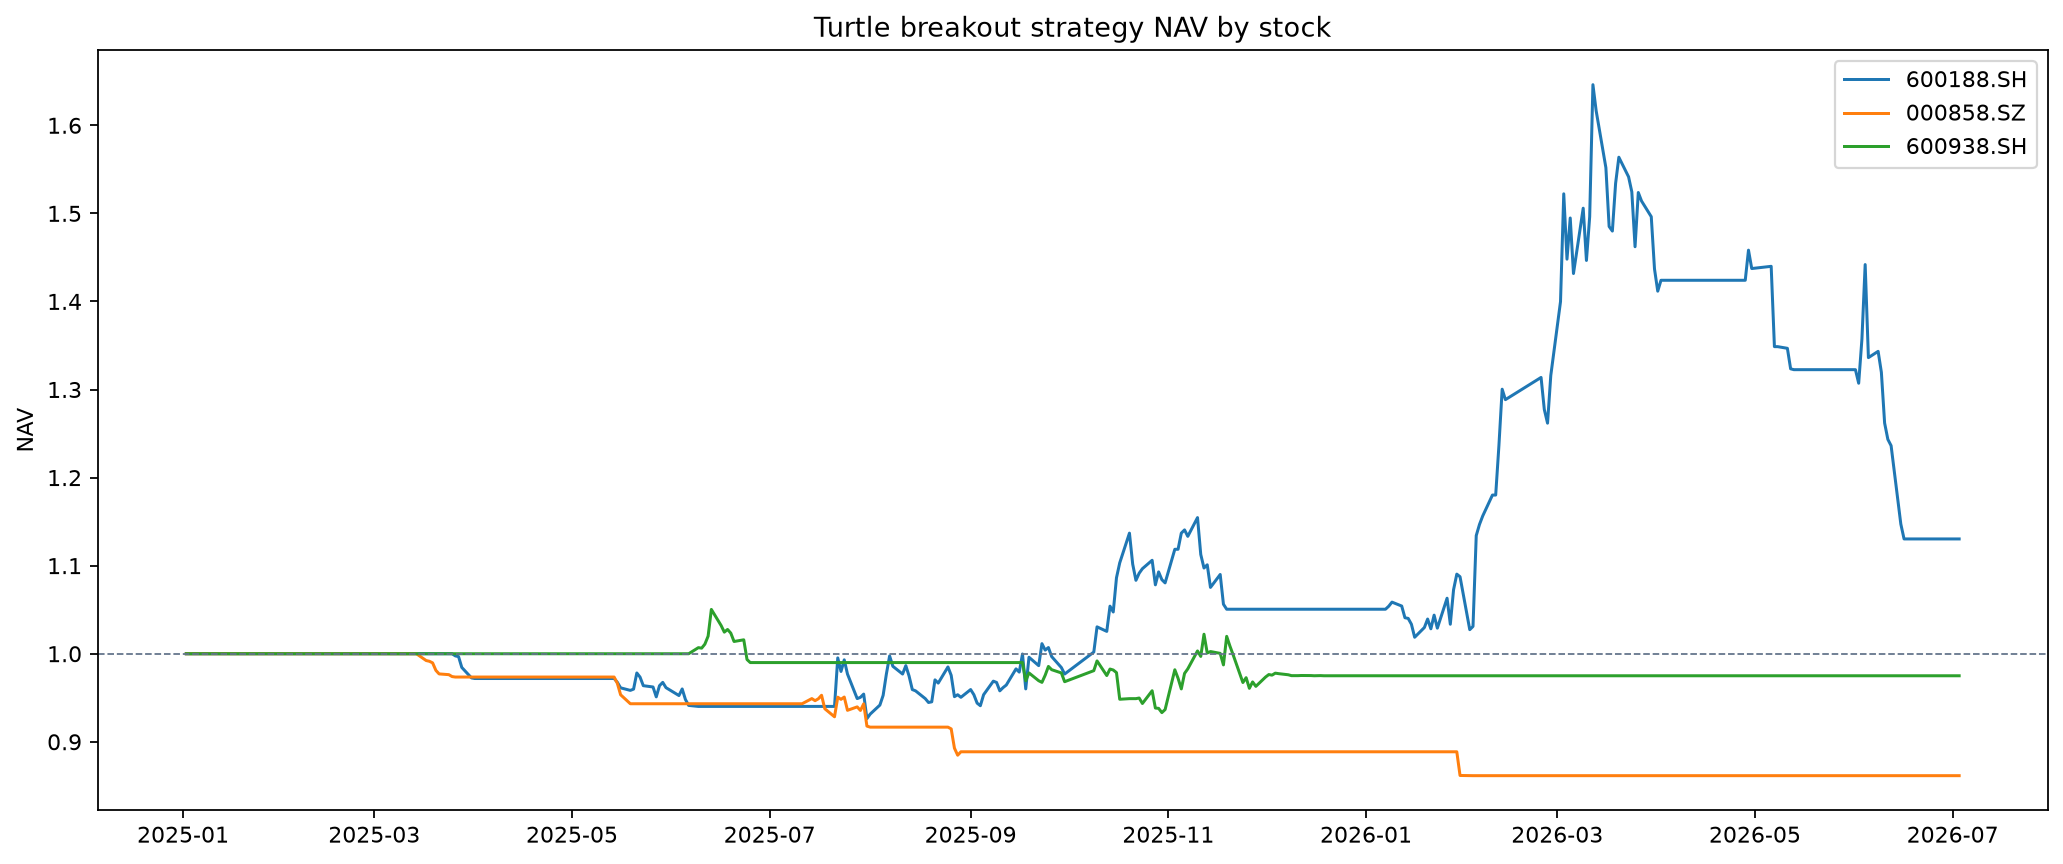
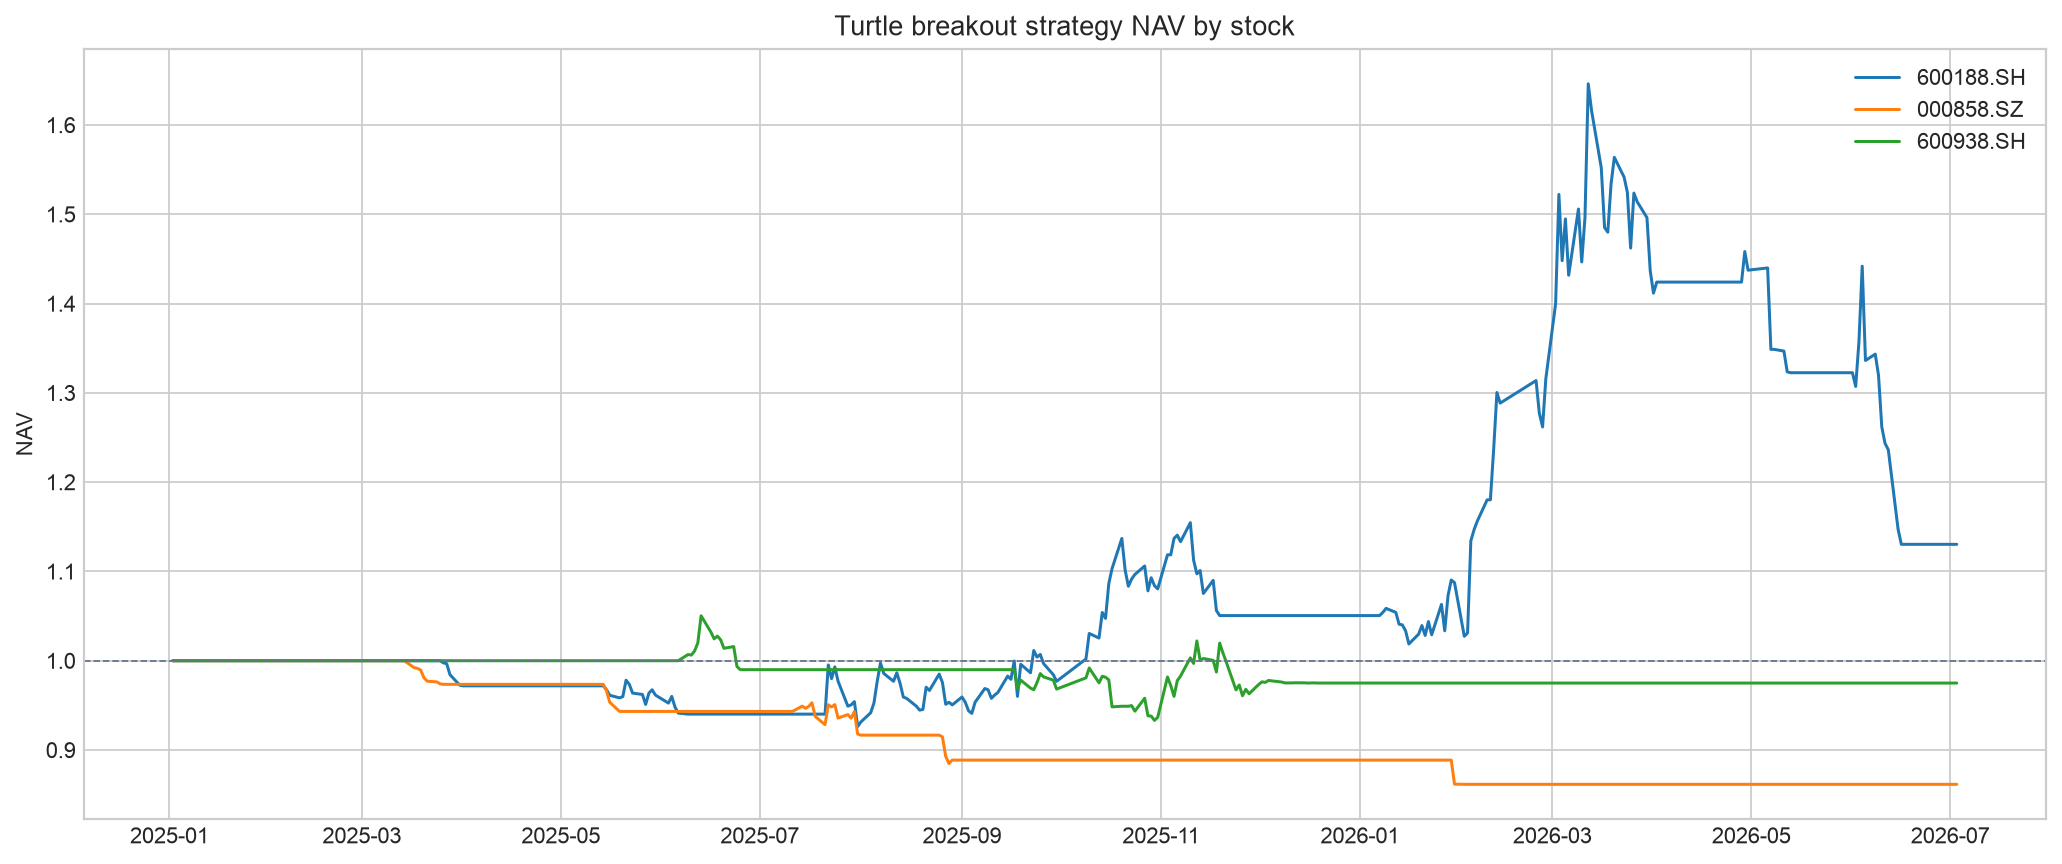
Expand Task 4 Turtle channel and ATR analysis

diff --git a/courses/lecture-4/task-4/Task4_海龟策略回测与双均线比较.html b/courses/lecture-4/task-4/Task4_海龟策略回测与双均线比较.html
@@ -1,14 +1,18 @@
 <!doctype html><html lang="zh-CN"><head><meta charset="utf-8"><meta name="viewport" content="width=device-width,initial-scale=1">
 <title>Task 4｜海龟策略回测与双均线比较</title><style>
-body{margin:0;background:#f6f8fb;color:#172033;font:15px/1.65 -apple-system,BlinkMacSystemFont,"Segoe UI",sans-serif}main{max-width:1180px;margin:auto;padding:38px 22px 64px}h1{font-size:32px;margin:0}h2{margin-top:36px}.hero{background:linear-gradient(120deg,#134e4a,#0f766e);color:#fff;border-radius:16px;padding:30px}.note{background:#fff7ed;border-left:4px solid #f97316;padding:14px;border-radius:6px}table{width:100%;border-collapse:collapse;background:#fff;font-size:13px}th,td{padding:10px;border-bottom:1px solid #e5e7eb;text-align:right}th:first-child,td:first-child{text-align:left}th{background:#ecfdf5;color:#134e4a}img{max-width:100%;background:#fff;border-radius:12px;margin:16px 0;box-shadow:0 2px 10px #dce3ed}</style></head>
+body{margin:0;background:#f6f8fb;color:#172033;font:15px/1.65 -apple-system,BlinkMacSystemFont,"Segoe UI",sans-serif}main{max-width:1180px;margin:auto;padding:38px 22px 64px}h1{font-size:32px;margin:0}h2{margin-top:36px}h3{margin-top:24px}.hero{background:linear-gradient(120deg,#134e4a,#0f766e);color:#fff;border-radius:16px;padding:30px}.note{background:#fff7ed;border-left:4px solid #f97316;padding:14px;border-radius:6px}table{width:100%;border-collapse:collapse;background:#fff;font-size:13px}th,td{padding:10px;border-bottom:1px solid #e5e7eb;text-align:right}th:first-child,td:first-child{text-align:left}th{background:#ecfdf5;color:#134e4a}img{max-width:100%;background:#fff;border-radius:12px;margin:16px 0;box-shadow:0 2px 10px #dce3ed}code{background:#e2e8f0;padding:2px 5px;border-radius:4px}</style></head>
 <body><main><section class="hero"><h1>海龟突破策略回测与双均线比较</h1><p>直接读取 <code>quant_a_share_daily/data/processed/daily_price.pkl</code>；相同数据区间：2025-01-02 至 2026-07-03；T 日信号、T+1 开盘模拟成交。</p></section>
 <h2>策略与基准口径</h2><ul><li>策略层：已注册的 <code>turtle_breakout_v1</code>，不是手工复写的简化规则。</li><li>S1：20 日突破入场、10 日通道退出；S2：55 日突破入场、20 日通道退出。</li><li>ATR20 风险单位：每单位风险 1%，初始止损 2 ATR，价格每上行 0.5 ATR 可加仓，最多 4 单位。</li><li>比较模式：每次只回测一只股票，单标的上限由默认 5% 调为 100%，使资金使用方式更接近 Task 3 的单标的双均线回测；其余策略组件、成本和 T+1 规则保持一致。</li><li>Buy & Hold：同一股票、同一数据窗口、相同初始资金，在首个交易日按收盘价建仓并持有至期末；不根据策略信号调仓，按被动基准口径不计交易成本（成本为 0）。</li></ul>
+<h2>Python 实现步骤</h2><ol><li>从本地 processed 数据库加载单只股票日频 OHLCV。</li><li>设定唐奇安上轨/下轨周期：默认上轨 20 日、下轨 10 日；通道均滞后一天，避免使用当日未来信息。</li><li>以原始 OHLC 与前一日收盘价计算 True Range，并滚动计算 ATR20。</li><li>收盘价突破滞后上轨产生买入信号，跌破滞后下轨产生卖出信号；仅标记状态切换时的事件。</li><li>绘制收盘价、高低通道、买卖信号及 ATR 图。</li><li>由项目回测引擎执行 T 日信号、T+1 开盘模拟成交，并计算四类绩效指标。</li></ol>
 <h2>数据审计</h2><p>每只股票的原始库行数、覆盖范围、重复记录与开盘价有效性见 <code>local_database_audit.csv</code>。单标的实验仅在内存中筛选代码，不创建或读取派生 processed 数据库。</p>
 <h2>核心指标摘要</h2><p>先比较总收益、年化收益、夏普和最大回撤；“海龟-B&H”和“均线-B&H”表示相对不换仓基准的总收益差。</p><table><thead><tr><th>股票</th><th>海龟收益</th><th>均线收益</th><th>买入持有</th><th>海龟-B&H</th><th>均线-B&H</th><th>海龟年化</th><th>均线年化</th><th>B&H 年化</th><th>海龟夏普</th><th>均线夏普</th><th>B&H 夏普</th><th>海龟回撤</th><th>均线回撤</th><th>B&H 回撤</th><th>海龟交易</th><th>均线交易</th><th>B&H 交易</th><th>海龟成本</th><th>均线成本</th><th>B&H 成本</th></tr></thead><tbody><tr><td>000858.SZ</td><td>-13.85%</td><td>-16.73%</td><td>-45.92%</td><td>32.08%</td><td>29.19%</td><td>-9.85%</td><td>-11.97%</td><td>-34.81%</td><td>-1.839</td><td>-1.075</td><td>-1.675</td><td>-13.85%</td><td>-18.14%</td><td>-47.39%</td><td>11</td><td>28</td><td>0</td><td>¥3,125.67</td><td>¥11,933.83</td><td>¥0.00</td></tr><tr><td>600188.SH</td><td>13.03%</td><td>17.37%</td><td>29.26%</td><td>-16.22%</td><td>-11.88%</td><td>8.90%</td><td>11.80%</td><td>19.56%</td><td>0.304</td><td>0.366</td><td>0.514</td><td>-31.33%</td><td>-23.99%</td><td>-34.83%</td><td>17</td><td>34</td><td>0</td><td>¥5,827.03</td><td>¥15,389.34</td><td>¥0.00</td></tr><tr><td>600938.SH</td><td>-2.50%</td><td>24.75%</td><td>-4.12%</td><td>1.62%</td><td>28.86%</td><td>-1.75%</td><td>16.64%</td><td>-2.88%</td><td>-0.187</td><td>0.594</td><td>-0.089</td><td>-11.15%</td><td>-20.21%</td><td>-38.36%</td><td>41</td><td>20</td><td>0</td><td>¥2,885.48</td><td>¥10,701.53</td><td>¥0.00</td></tr></tbody></table>
 <h2>完整绩效指标矩阵：海龟、MA5/15 与 Buy & Hold</h2><p>按 Lecture 3 的收益、风险、交易质量、综合四类逐项比较。数值差均为策略值减去 Buy & Hold；最大回撤的正差代表回撤较小。</p><h3>收益类</h3><table><thead><tr><th>股票</th><th>指标</th><th>海龟</th><th>MA5/15</th><th>Buy & Hold</th><th>海龟-B&H</th><th>均线-B&H</th></tr></thead><tbody><tr><td>000858.SZ</td><td>总收益率</td><td>-13.85%</td><td>-16.73%</td><td>-45.92%</td><td>32.08%</td><td>29.19%</td></tr><tr><td>000858.SZ</td><td>年化收益率</td><td>-9.85%</td><td>-11.97%</td><td>-34.81%</td><td>24.96%</td><td>22.85%</td></tr><tr><td>600188.SH</td><td>总收益率</td><td>13.03%</td><td>17.37%</td><td>29.26%</td><td>-16.22%</td><td>-11.88%</td></tr><tr><td>600188.SH</td><td>年化收益率</td><td>8.90%</td><td>11.80%</td><td>19.56%</td><td>-10.66%</td><td>-7.76%</td></tr><tr><td>600938.SH</td><td>总收益率</td><td>-2.50%</td><td>24.75%</td><td>-4.12%</td><td>1.62%</td><td>28.86%</td></tr><tr><td>600938.SH</td><td>年化收益率</td><td>-1.75%</td><td>16.64%</td><td>-2.88%</td><td>1.14%</td><td>19.53%</td></tr></tbody></table>
 <h3>风险类</h3><table><thead><tr><th>股票</th><th>指标</th><th>海龟</th><th>MA5/15</th><th>Buy & Hold</th><th>海龟-B&H</th><th>均线-B&H</th></tr></thead><tbody><tr><td>000858.SZ</td><td>年化波动率</td><td>5.36%</td><td>11.13%</td><td>20.78%</td><td>-15.42%</td><td>-9.65%</td></tr><tr><td>000858.SZ</td><td>最大回撤</td><td>-13.85%</td><td>-18.14%</td><td>-47.39%</td><td>33.55%</td><td>29.26%</td></tr><tr><td>600188.SH</td><td>年化波动率</td><td>29.33%</td><td>32.23%</td><td>38.03%</td><td>-8.70%</td><td>-5.81%</td></tr><tr><td>600188.SH</td><td>最大回撤</td><td>-31.33%</td><td>-23.99%</td><td>-34.83%</td><td>3.50%</td><td>10.84%</td></tr><tr><td>600938.SH</td><td>年化波动率</td><td>9.37%</td><td>28.04%</td><td>32.56%</td><td>-23.20%</td><td>-4.53%</td></tr><tr><td>600938.SH</td><td>最大回撤</td><td>-11.15%</td><td>-20.21%</td><td>-38.36%</td><td>27.20%</td><td>18.15%</td></tr></tbody></table>
 <h3>交易质量类</h3><table><thead><tr><th>股票</th><th>指标</th><th>海龟</th><th>MA5/15</th><th>Buy & Hold</th><th>海龟-B&H</th><th>均线-B&H</th></tr></thead><tbody><tr><td>000858.SZ</td><td>成交笔数</td><td>11</td><td>28</td><td>0</td><td>11</td><td>28</td></tr><tr><td>000858.SZ</td><td>已平仓交易数</td><td>5</td><td>14</td><td>0</td><td>5</td><td>14</td></tr><tr><td>000858.SZ</td><td>胜率</td><td>0.00%</td><td>14.29%</td><td>0.00%</td><td>0.00%</td><td>14.29%</td></tr><tr><td>000858.SZ</td><td>平均盈利</td><td>¥0.00</td><td>¥24,713.71</td><td>¥0.00</td><td>¥0.00</td><td>¥24,713.71</td></tr><tr><td>000858.SZ</td><td>平均亏损</td><td>¥-27,541.85</td><td>¥-17,829.38</td><td>¥0.00</td><td>¥-27,541.85</td><td>¥-17,829.38</td></tr><tr><td>000858.SZ</td><td>盈亏比</td><td>0.000</td><td>1.386</td><td>0.000</td><td>0.000</td><td>1.386</td></tr><tr><td>000858.SZ</td><td>单笔期望收益</td><td>¥-27,541.85</td><td>¥-11,751.79</td><td>¥0.00</td><td>¥-27,541.85</td><td>¥-11,751.79</td></tr><tr><td>000858.SZ</td><td>佣金</td><td>¥1,404.79</td><td>¥5,284.66</td><td>¥0.00</td><td>¥1,404.79</td><td>¥5,284.66</td></tr><tr><td>000858.SZ</td><td>印花税</td><td>¥1,653.39</td><td>¥6,391.94</td><td>¥0.00</td><td>¥1,653.39</td><td>¥6,391.94</td></tr><tr><td>000858.SZ</td><td>过户费</td><td>¥67.49</td><td>¥257.23</td><td>¥0.00</td><td>¥67.49</td><td>¥257.23</td></tr><tr><td>000858.SZ</td><td>总交易成本</td><td>¥3,125.67</td><td>¥11,933.83</td><td>¥0.00</td><td>¥3,125.67</td><td>¥11,933.83</td></tr><tr><td>600188.SH</td><td>成交笔数</td><td>17</td><td>34</td><td>0</td><td>17</td><td>34</td></tr><tr><td>600188.SH</td><td>已平仓交易数</td><td>6</td><td>17</td><td>0</td><td>6</td><td>17</td></tr><tr><td>600188.SH</td><td>胜率</td><td>33.33%</td><td>23.53%</td><td>0.00%</td><td>33.33%</td><td>23.53%</td></tr><tr><td>600188.SH</td><td>平均盈利</td><td>¥242,156.64</td><td>¥116,316.22</td><td>¥0.00</td><td>¥242,156.64</td><td>¥116,316.22</td></tr><tr><td>600188.SH</td><td>平均亏损</td><td>¥-88,155.76</td><td>¥-22,153.56</td><td>¥0.00</td><td>¥-88,155.76</td><td>¥-22,153.56</td></tr><tr><td>600188.SH</td><td>盈亏比</td><td>2.747</td><td>5.250</td><td>0.000</td><td>2.747</td><td>5.250</td></tr><tr><td>600188.SH</td><td>单笔期望收益</td><td>¥21,948.37</td><td>¥10,427.57</td><td>¥0.00</td><td>¥21,948.37</td><td>¥10,427.57</td></tr><tr><td>600188.SH</td><td>佣金</td><td>¥2,566.74</td><td>¥6,766.56</td><td>¥0.00</td><td>¥2,566.74</td><td>¥6,766.56</td></tr><tr><td>600188.SH</td><td>印花税</td><td>¥3,136.20</td><td>¥8,292.95</td><td>¥0.00</td><td>¥3,136.20</td><td>¥8,292.95</td></tr><tr><td>600188.SH</td><td>过户费</td><td>¥124.09</td><td>¥329.83</td><td>¥0.00</td><td>¥124.09</td><td>¥329.83</td></tr><tr><td>600188.SH</td><td>总交易成本</td><td>¥5,827.03</td><td>¥15,389.34</td><td>¥0.00</td><td>¥5,827.03</td><td>¥15,389.34</td></tr><tr><td>600938.SH</td><td>成交笔数</td><td>41</td><td>20</td><td>0</td><td>41</td><td>20</td></tr><tr><td>600938.SH</td><td>已平仓交易数</td><td>37</td><td>10</td><td>0</td><td>37</td><td>10</td></tr><tr><td>600938.SH</td><td>胜率</td><td>78.38%</td><td>50.00%</td><td>0.00%</td><td>78.38%</td><td>50.00%</td></tr><tr><td>600938.SH</td><td>平均盈利</td><td>¥903.33</td><td>¥107,083.42</td><td>¥0.00</td><td>¥903.33</td><td>¥107,083.42</td></tr><tr><td>600938.SH</td><td>平均亏损</td><td>¥-6,323.06</td><td>¥-57,102.97</td><td>¥0.00</td><td>¥-6,323.06</td><td>¥-57,102.97</td></tr><tr><td>600938.SH</td><td>盈亏比</td><td>0.143</td><td>1.875</td><td>0.000</td><td>0.143</td><td>1.875</td></tr><tr><td>600938.SH</td><td>单笔期望收益</td><td>¥-659.13</td><td>¥24,990.23</td><td>¥0.00</td><td>¥-659.13</td><td>¥24,990.23</td></tr><tr><td>600938.SH</td><td>佣金</td><td>¥1,372.83</td><td>¥4,681.31</td><td>¥0.00</td><td>¥1,372.83</td><td>¥4,681.31</td></tr><tr><td>600938.SH</td><td>印花税</td><td>¥1,454.25</td><td>¥5,791.16</td><td>¥0.00</td><td>¥1,454.25</td><td>¥5,791.16</td></tr><tr><td>600938.SH</td><td>过户费</td><td>¥58.39</td><td>¥229.06</td><td>¥0.00</td><td>¥58.39</td><td>¥229.06</td></tr><tr><td>600938.SH</td><td>总交易成本</td><td>¥2,885.48</td><td>¥10,701.53</td><td>¥0.00</td><td>¥2,885.48</td><td>¥10,701.53</td></tr></tbody></table>
 <h3>综合类</h3><table><thead><tr><th>股票</th><th>指标</th><th>海龟</th><th>MA5/15</th><th>Buy & Hold</th><th>海龟-B&H</th><th>均线-B&H</th></tr></thead><tbody><tr><td>000858.SZ</td><td>无风险利率</td><td>0.00%</td><td>0.00%</td><td>0.00%</td><td>0.00%</td><td>0.00%</td></tr><tr><td>000858.SZ</td><td>夏普比率</td><td>-1.839</td><td>-1.075</td><td>-1.675</td><td>-0.164</td><td>0.600</td></tr><tr><td>000858.SZ</td><td>卡玛比率</td><td>-0.712</td><td>-0.660</td><td>-0.735</td><td>0.023</td><td>0.075</td></tr><tr><td>600188.SH</td><td>无风险利率</td><td>0.00%</td><td>0.00%</td><td>0.00%</td><td>0.00%</td><td>0.00%</td></tr><tr><td>600188.SH</td><td>夏普比率</td><td>0.304</td><td>0.366</td><td>0.514</td><td>-0.211</td><td>-0.148</td></tr><tr><td>600188.SH</td><td>卡玛比率</td><td>0.284</td><td>0.492</td><td>0.562</td><td>-0.277</td><td>-0.070</td></tr><tr><td>600938.SH</td><td>无风险利率</td><td>0.00%</td><td>0.00%</td><td>0.00%</td><td>0.00%</td><td>0.00%</td></tr><tr><td>600938.SH</td><td>夏普比率</td><td>-0.187</td><td>0.594</td><td>-0.089</td><td>-0.098</td><td>0.682</td></tr><tr><td>600938.SH</td><td>卡玛比率</td><td>-0.157</td><td>0.823</td><td>-0.075</td><td>-0.082</td><td>0.899</td></tr></tbody></table>
-<h2>图表</h2><img src="figures/turtle_vs_ma_metrics.png" alt="turtle_vs_ma_metrics">
+<h2>通道、ATR 与策略图表</h2><img src="figures/turtle_channel_atr_signals_600188_SH_20_10.png" alt="turtle_channel_atr_signals_600188_SH_20_10">
+<img src="figures/turtle_vs_ma_metrics.png" alt="turtle_vs_ma_metrics">
 <img src="figures/turtle_navs_by_stock.png" alt="turtle_navs_by_stock">
-<h2>结论</h2><p>本样本中，海龟策略相对于 MA5/15 的最大收益改善出现在 <strong>000858.SZ</strong>，差额为 <strong>2.89%</strong>。表格与图表同时保留 Buy & Hold，以避免把“战胜另一条规则”误读为“战胜不换仓基准”。海龟策略的突破和 ATR 仓位机制通常降低无趋势期的暴露，但会牺牲趋势初段，并受突破失败、跳空和涨跌停约束影响。</p><ul><li>若市场出现持续趋势，通道突破与金字塔加仓往往比单次均线交叉更能持有趋势。</li><li>若市场横盘震荡，突破失败会造成连续小亏；均线和海龟都需要结合样本外验证。</li><li>对比应同时看相对 Buy & Hold 的收益、夏普、回撤、交易次数和成本，不能只按样本内总收益选策略。</li></ul><p class="note">所有结果均为本地历史数据上的研究回测，不构成投资建议或未来收益承诺。</p></main></body></html>
+<img src="figures/turtle_channel_parameter_sensitivity.png" alt="turtle_channel_parameter_sensitivity">
+<h2>通道周期与标的敏感性实验</h2><p>为隔离核心通道参数影响，本实验只启用 S1 单系统，分别测试上/下通道 <code>20/10</code>、<code>30/15</code>、<code>55/20</code>，ATR 固定为 20。样本内年化收益最佳组合是 <strong>600188.SH 55/20</strong>，年化收益 <strong>24.57%</strong>、夏普 <strong>0.764</strong>。这仅用于观察敏感性，不能作为未来参数选择依据。</p><table><thead><tr><th>股票</th><th>上轨周期</th><th>下轨周期</th><th>ATR周期</th><th>总收益</th><th>B&H收益</th><th>策略-B&H</th><th>年化</th><th>波动率</th><th>最大回撤</th><th>夏普</th><th>卡玛</th><th>胜率</th><th>盈亏比</th><th>期望收益</th><th>交易笔数</th><th>交易成本</th></tr></thead><tbody><tr><td>600188.SH</td><td>55</td><td>20</td><td>20</td><td>37.10%</td><td>29.26%</td><td>7.85%</td><td>24.57%</td><td>32.15%</td><td>-28.92%</td><td>0.764</td><td>0.850</td><td>100.00%</td><td>0.000</td><td>¥185,751.91</td><td>8</td><td>¥2,233.49</td></tr><tr><td>600938.SH</td><td>55</td><td>20</td><td>20</td><td>25.12%</td><td>-4.12%</td><td>29.23%</td><td>16.88%</td><td>25.05%</td><td>-13.89%</td><td>0.674</td><td>1.215</td><td>33.33%</td><td>8.114</td><td>¥83,903.87</td><td>8</td><td>¥2,559.06</td></tr><tr><td>600188.SH</td><td>20</td><td>10</td><td>20</td><td>18.76%</td><td>29.26%</td><td>-10.50%</td><td>12.71%</td><td>28.60%</td><td>-26.62%</td><td>0.444</td><td>0.477</td><td>33.33%</td><td>3.392</td><td>¥31,485.37</td><td>18</td><td>¥5,820.88</td></tr><tr><td>600188.SH</td><td>30</td><td>15</td><td>20</td><td>13.40%</td><td>29.26%</td><td>-15.86%</td><td>9.15%</td><td>26.05%</td><td>-22.89%</td><td>0.351</td><td>0.400</td><td>33.33%</td><td>3.368</td><td>¥22,523.00</td><td>19</td><td>¥4,871.04</td></tr><tr><td>600938.SH</td><td>20</td><td>10</td><td>20</td><td>13.02%</td><td>-4.12%</td><td>17.14%</td><td>8.89%</td><td>23.57%</td><td>-13.90%</td><td>0.377</td><td>0.640</td><td>40.00%</td><td>4.175</td><td>¥26,241.33</td><td>14</td><td>¥4,348.86</td></tr><tr><td>600938.SH</td><td>30</td><td>15</td><td>20</td><td>10.15%</td><td>-4.12%</td><td>14.26%</td><td>6.96%</td><td>24.48%</td><td>-13.89%</td><td>0.284</td><td>0.501</td><td>40.00%</td><td>3.320</td><td>¥20,489.80</td><td>14</td><td>¥4,263.02</td></tr><tr><td>000858.SZ</td><td>55</td><td>20</td><td>20</td><td>-2.20%</td><td>-45.92%</td><td>43.72%</td><td>-1.54%</td><td>1.56%</td><td>-2.50%</td><td>-0.987</td><td>-0.613</td><td>0.00%</td><td>0.000</td><td>¥-21,826.79</td><td>2</td><td>¥652.63</td></tr><tr><td>000858.SZ</td><td>30</td><td>15</td><td>20</td><td>-10.12%</td><td>-45.92%</td><td>35.80%</td><td>-7.16%</td><td>4.03%</td><td>-10.40%</td><td>-1.776</td><td>-0.688</td><td>0.00%</td><td>0.000</td><td>¥-25,160.13</td><td>9</td><td>¥2,431.47</td></tr><tr><td>000858.SZ</td><td>20</td><td>10</td><td>20</td><td>-13.05%</td><td>-45.92%</td><td>32.87%</td><td>-9.27%</td><td>5.13%</td><td>-13.05%</td><td>-1.807</td><td>-0.711</td><td>0.00%</td><td>0.000</td><td>¥-25,954.81</td><td>11</td><td>¥2,891.99</td></tr></tbody></table>
+<h2>适应场景与使用心得</h2><p>本样本中，海龟策略相对于 MA5/15 的最大收益改善出现在 <strong>000858.SZ</strong>，差额为 <strong>2.89%</strong>。表格与图表同时保留 Buy & Hold，以避免把“战胜另一条规则”误读为“战胜不换仓基准”。</p><ul><li>海龟法则更适合存在持续方向、突破后能延续的趋势行情；上轨突破与 ATR 加仓可捕捉较长趋势。</li><li>横盘震荡中会出现突破失败和连续小亏；应结合最大回撤、期望收益和交易成本，而不只看胜率。</li><li>通道越短，信号越灵敏、交易越频繁；通道越长，过滤噪声更强但进场更滞后。参数必须经滚动样本与样本外验证。</li><li>ATR 仓位管理使高波动标的自动降低单位股数；实盘还需遵守单股权重、停牌、涨跌停与组合总风险限制。</li></ul><p class="note">所有结果均为本地历史数据上的研究回测，不构成投资建议或未来收益承诺。</p></main></body></html>